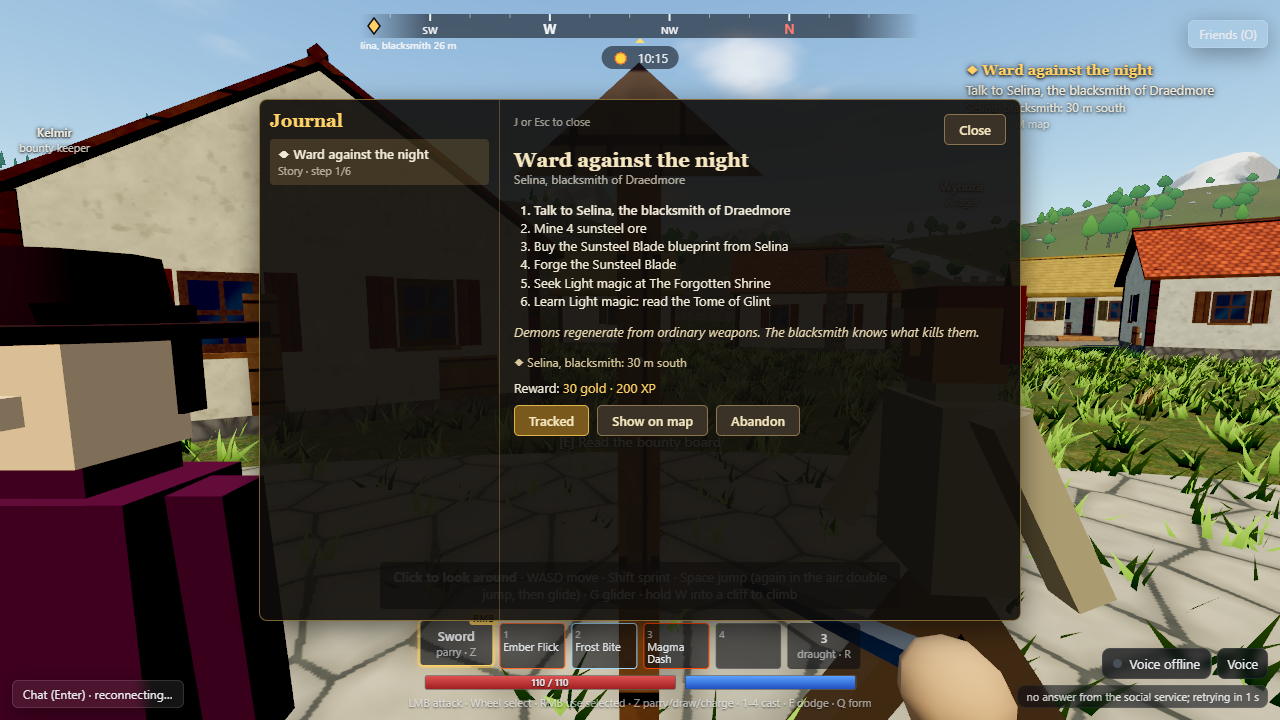
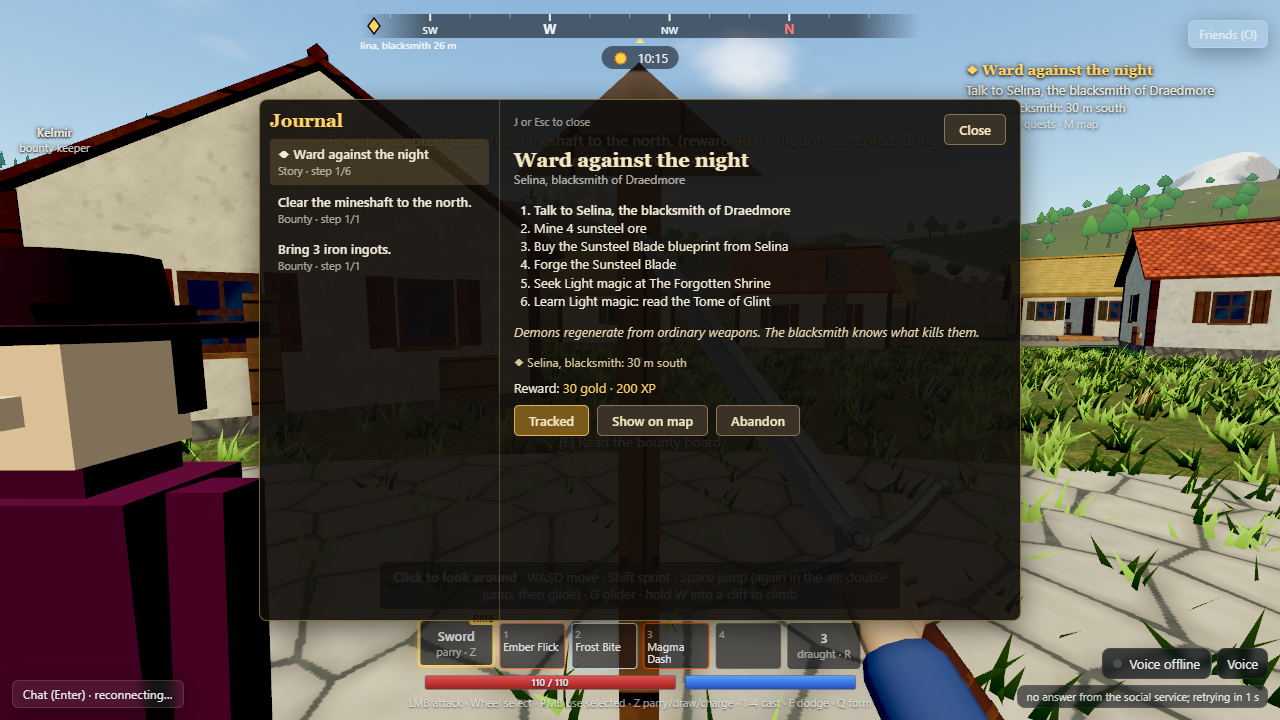
STATUS: Playtest 1 section; bounty screenshots via E on the board

diff --git a/client/src/ui/quests/dev/pt-ux-shots.ts b/client/src/ui/quests/dev/pt-ux-shots.ts
@@ -405,9 +405,8 @@ async function main(): Promise<void> {
       await page.screenshot({ path: shot('bounty-preview-map') });
       note('shot pt-ux-bounty-preview-map.png (the job\'s area on the map before accepting)');
       await page.keyboard.press('KeyM');
-      const acc = await page.$$('[data-testid="town-panel"] button[data-act="accept"]');
-      for (const a of acc.slice(0, 2)) {
-        await a.click();
+      for (let k = 0; k < 2; k++) {
+        await page.click(`[data-testid="town-panel"] button[data-act="accept"]`); // re-queried: the panel re-renders after each accept
         await sleep(400);
       }
       await page.evaluate(() => (window as unknown as W).__lodestoneTowns!.closePanel());

diff --git a/docs/STATUS.md b/docs/STATUS.md
@@ -870,3 +870,35 @@ Assumptions:
 - Baselines were built from the merge-base `da7e882` (main before WP14/WP15) plus the horde knob; the after runs include WP14 and WP15.
 
 Files touched: `server/pkg/snapshot/{codec.go, compact.go (new), equiv_test.go (new)}`, `server/pkg/README.md`; `server/zone/internal/aoi/aoi.go`; `server/zone/internal/combat/{ai.go, enemy.go, world.go, scale_test.go (new), README.md}`; `server/zone/internal/game/{server.go, session.go (old sendSnapshot removed), ghosts.go, handoff.go (1 field), entity.go (2 fields), explore.go (1 line), combat.go (horde knob, debug on demand, awake metric), snapshots.go (new), phases.go (new), scale_bench_test.go (new), snapshots_test.go (new)}`, `server/zone/main.go` (phases in /debug/tickstats), `server/zone/README.md`; `server/social/voice/voicebots/{main.go, README.md}`; `tools/bots/{main.go, handoff-soak.mjs, scale-soak.mjs (new), README.md}`; `client/src/{devHandle.ts, net/interpolation.ts, net/dev/handoff-acceptance.mjs, net/README.md, scene/GameCanvas.tsx, scene/SkyAndSun.tsx, stores/qualityStore.ts, stores/stores.test.ts, world/WorldScene.tsx, world/buildings/TownsLayer.tsx}`, `client/README.md`; `infra/cost/README.md` (pointer); `docs/decisions/v1-capacity.md` (new), `docs/evidence/wp19-*` (new), this section. No contract, protocol, migration or worldgen change.
+
+## Playtest 1: UX, quests and presentation ✅
+
+Branch `pt/ux` (main merged in, incl. G4 and the mouse-look fix; sub-branches `pt/ux-doors`, `pt/ux-weapons`, `pt/ux-intros` merged). Contract change: `docs/cr/013-playtest-ux-quests.md` (Events 950-955 and 970-972, Interact 34 and 60, player `typeId` weapon look, Event 212 tail, migration **0023**: run `npm run migrate` after merge). Package docs: `server/zone/README.md` "Quests", `client/src/ui/quests/README.md`, `client/src/combat/README.md` (Controls, health bars, Weapons), `client/src/ui/intro/README.md`, `client/src/world/buildings/README.md` and `server/pkg/towns/README.md` (doors), `client/README.md` (`hud/layout.ts`), `client/src/ui/map/README.md` (quest markers). Screenshot harness: `cd client && npx vite-node src/ui/quests/dev/pt-ux-shots.ts [--before]` (real client + zone binary, official world, private ports, no DB).
+
+Nicole's feedback, item by item:
+
+- **"Map markers for quests you take on, and the option to see where a quest will take place, should you accept."** Quests are now a server-authoritative, persisted log (`server/zone/internal/quests` + `internal/game/quests.go`): accepted bounties (board or bounty keeper; WP20 kept them in zone memory only) and the starter story quest. Every step carries map markers (points or area circles). Client (`client/src/ui/quests`): a tracker under the compass (step, count, "Sunsteel ore: 500 m south-west"), notes for new quests/steps/completions, the journal (J: track, show on map, hand in, abandon); markers on the map (M; tracked in gold, areas as circles), on the compass (gold diamond, nearest labelled with its distance) and in the world (a soft gold beam over each marker of the tracked quest). Before accepting: an offer card lists every step with distance/direction and area size, a small map of all the places, and "Show on map" (the full map framed on a cyan dashed preview); every bounty notice says where it takes you and has its own "Show on map". Persistence: `character_quests` (migration 0023, epoch-fenced like WP16 checkpoints), local profiles' save blob, a `quests` HandoffField across zones. Completion for every bounty kind: clear (the site's group wiped with you eligible, or arriving while it is quiet), slay (a demon kill within 250 m of the site), explore (reach it), deliver (handed in at that town's board or keeper, automatically when you read it). Evidence: `docs/evidence/pt-ux-quest-tracker.png`, `pt-ux-quest-offer.png`, `pt-ux-quest-offer-map.png`, `pt-ux-quest-step.png`, `pt-ux-quest-map.png`, `pt-ux-quest-compass.png` (compass diamond + beams), `pt-ux-bounty-offer.png`, `pt-ux-bounty-preview-map.png`, `pt-ux-quest-journal.png`, `pt-ux-quest-map-bounties.png`, log `pt-ux-shots.txt`.
+- **"Demons are really hard early on because you don't know where to get sunsteel or light magic."** Starter quest **"Ward against the night"** starts on a character's first login at the nearest town: talk to the blacksmith (25 gold and a line explaining that only sunsteel, Light or sunrise kill demons, and where the seam is) → mine 4 sunsteel ore (marked: the nearest cave whose sunlit chambers hold sunsteel veins, e.g. "Faeldstoich Deep, 490 m south-west of Draedmore", plus its mouth) → buy the Sunsteel Blade blueprint → forge it (forge marked) → seek Light magic at the nearest shrine ("The Forgotten Shrine, 200 m north-east"; arriving hands over a Tome of Glint) → read it (Glint drops into the first empty spell slot). 30 gold + 200 XP. A blacksmith re-offers it (with the preview) if dropped. An in-process test on the official world walks it end to end.
+- **"The number keys are hard to use for spells. Scroll to a spell and right click, or the number keys."** The mouse wheel cycles what the right button uses: the weapon's secondary (the default, so WP13's feel is unchanged) or a filled spell slot; the selected box is raised with a gold "RMB" badge; right click casts it; 1-4 still cast directly (and select). Parry/draw/charge/heavy also on **hold Z** at any time. Hint line: "LMB attack · Wheel select · RMB use selected · Z parry/draw/charge · 1-4 cast · F dodge · Q form". Selection is client-only (the same input bits reach the zone), so WP13's timeline tests pass unchanged. Evidence: `pt-ux-spell-wheel.png`, `pt-ux-spell-wheel-cast.png`; tests `client/src/combat/spellSelect.test.ts`.
+- **"Should be able to close doors."** (`pt/ux-doors`.) Building doors (inns, houses, farms, workshops...; forges have open fronts) open/close with E ("[E] Open door" / "[E] Close door"), replicated to everyone within 260 m of the town (Event 970), baselines for newcomers (971), refusals (972: e.g. someone in the doorway). Door boxes come straight from the towns buffer, identical f32s in TS (`worldgen/js/src/doors.ts`) and Go (`server/pkg/towns/doors.go`), 1,092 push vectors replayed bit for bit; closed doors are an overlay after the WP20 town collision, and doors start open (WP20 goldens and its walk-in acceptance untouched). Each change is stamped with the movement step it applies at, per recipient, so prediction and the zone switch on the same step. NPCs open doors on their route, walk through and close them behind. **Walk-through agreement** (`docs/evidence/pt-ux-door-walkthrough.txt`; Node client predicting with TS vs the zone binary on the official world: close, walk into it, open, walk in, close behind, push, open, out; the inn and two houses direct and the inn under ~190 ms RTT netsim): **0 corrections, max divergence 0.81 cm**, stopped exactly at the 0.55 m limit on both sides. Screenshots `pt-ux-door-closed.png`, `pt-ux-door-open.png`.
+- **"Health bars are fixed to a player's head; rotate 180 degrees and see no health bar."** Enemy health bars (and elite/boss name labels, new) sit in a plate turned to face the camera every frame (`faceCamera`, double-sided); they used to turn with the body. Player nameplates were already sprites. Evidence: the same idle camp from four sides at 17 m, before (main: bars missing or edge-on from some sides) and after: `pt-ux-healthbars-{before,after}-{north,south,east,west}.png`; test `billboard.test.ts`.
+- **"Take the location intros from 3d-portfolio-site."** (`pt/ux-intros`.) A grand title card ported from the portfolio's region reveal (`HudToasts.tsx` `botw-title` / `gem-label` / `botw-rule`, Fraunces with a Georgia fallback, its 3.4 s ease-in-out timing stretched per size, blur-in, letter-spacing settle, a glowing diamond rule) plus a synthesized WebAudio sting (the reference is silent). Region (tower reveal 600, first entry this session), major (602 discoveries: towns, towers, caves, structures, landmarks), minor (601 waypoints), quiet name cards when re-entering known towns; queued, never overlapping, pointer-events none. **902 `tower_attuned`** (CR 012, pt/progression) is wired too. Credited in `CREDITS.md` and `client/src/ui/intro/README.md`. Evidence: `pt-ux-intro-discovery.png` (mid-animation), `pt-ux-intro-frames-{1,2,3}.png`, `-town`, `-tower`, `-region`, `-region-entry`, `-1080`, `-800`, `-reference.png`.
+- **"The lower part of the HUD is vertically crowded, with UI elements overlapping."** One centre stack at the bottom (hotbar, health bar with the numbers inside, mana, key hints) measured into CSS variables (`client/src/hud/layout.ts`); the lock hint sits above it instead of across it; chat and voice stay in the corners at a width that never reaches the centre column and lift above the stack below 1080 px wide; the party frame and loot toasts follow. Before/after: `pt-ux-hud-{before,after}-{1280x720,1920x1080,800x700}.png`.
+- **"Weapons don't look like weapons."** (`pt/ux-weapons`.) Procedural sword (fullered, bevelled blade, curved guard, wrapped grip, pommel), spear (ash shaft, leaf head, binding, butt spike), recurve bow (string pulls back, arrow nocked while drawing), staff (gnarled shaft, tines cradling the gem), wand (carved, ferrule, claw-held gem tip); one draw call each, ≤ 1.6k triangles in first person, ≤ 0.6k third person with a far LOD; the **sunsteel blade** is warm gold-white with glowing edges and a shimmer; the socketed gem shows in its element colour. Other players hold their weapon: the player entity's `typeId` carries weapon | material | gem (set on change only). Evidence: `pt-ux-weapon-{sword,spear,bow,staff,wand,sunsteel,sunsteel-night,remote}.png` and `pt-ux-weapon-before-*.png`.
+
+New controls: mouse wheel (select what the right button uses), right mouse (use it: cast the selected spell, or parry/draw/charge/heavy with the weapon selected), hold Z (parry/draw/charge/heavy), J (journal), E on a door (open/close).
+
+Tests: Go `internal/quests` (every objective kind, limits, wire, round trip), `internal/game/quests_test.go` (the Ward end to end; every bounty kind on today's board accepted, persisted over a reconnect, delivered, explored; abandon; the handoff field), door tests (`server/pkg/towns`, `internal/game/doors_test.go`), `weaponlook_test.go`; vitest `ui/quests/quests.test.ts`, `combat/spellSelect.test.ts`, `combat/billboard.test.ts`, `ui/intro/intro.test.ts`, `world/buildings/doors.test.ts` + `doorWalk.integration.test.ts`, `combat/weapons/weapons.test.ts`, `net/avatar.test.ts`.
+
+Known gaps:
+- Quest texts and the Ward's step order are proposals (one place: `server/zone/internal/quests/content.go`).
+- No spellbook/skill-tree screen yet: the Ward teaches Light with a tome that slots itself; other trees still need tomes.
+- NPC requests other than bounties don't exist yet (bounty keeper jobs are the NPC requests); slay bounties need a night and a demon near the site; a clear bounty at a site with no enemy group completes on arrival.
+- The account upgrade (local profile -> account) does not copy the quest log; a dead zone's unsaved quest changes are lost like other progress (WP16 gap).
+- Doors: state is in zone memory (a restart reopens all) and per zone in a WP16 cluster; bots predict without doors; the zone's view extrapolation ignores doors.
+- Remote avatars hold their weapon at rest only (remote swings aren't replicated); the intro sting was never heard in headless runs.
+- There is still no shader warm-up list on main (WP19 second pass): the new weapon material, quest beam and doors compile on first use.
+
+Assumptions:
+- Quests are their owner's only (no shared party quests); the starter quest auto-starts as a tutorial (the offer card is for re-offers and future NPCs); quest proximity checks run on the authoritative position at 2 Hz.
+- Shared files touched: `contracts/events.md` (rows, ranges), `server/pkg/localsave/state.go` (`Quests`), `server/zone/internal/game/{server.go (field, init, tick, join, leave lines), session.go (field, load, Interact 60, door frame ground), towns.go (bounties through the log, talk hook, doors), items.go (inventory recheck, tome -> slot, weapon look), combat.go (spell recheck, weapon look), explore.go (local blob)}`, `server/zone/internal/npc/{talk.go (Bounty.Item, EncodeBountiesState), npc.go (door gate)}`, `client/src/net/NetPlay.tsx` (quest hook + layer), `client/src/screens/PlayScreen.tsx` (QuestHud), `client/src/ui/map/{MapScreen,Compass,store,ExplorationHud}.tsx`, `client/src/world/buildings/{townHud,townEvents,interact,kit,townsManager,townsDebug}.ts`, `client/src/world/core/runtime.ts` (door ground), `client/src/net/prediction.ts` (replay from a door step), `client/src/sim/localSim.ts`, `client/src/combat/{runtime,store,CombatHud,CombatLayer,events,timeline}.ts(x)`, `client/src/net/avatar.ts`, `client/src/scene/FirstPersonArms.tsx`, `client/src/hud/Overlays.tsx`, `client/src/social/ui/{ChatPanel,PartyFrame}.tsx`, `client/src/voice/ui/VoiceHud.tsx`, `client/src/ui/inventory/LootHud.tsx`, `CREDITS.md`, READMEs. Migration: `contracts/migrations/0023_quests.sql`. No protocol.yaml, constants, combat/items tables or worldgen output change.
